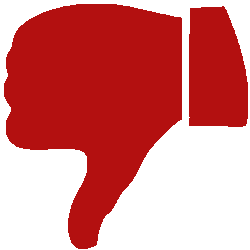
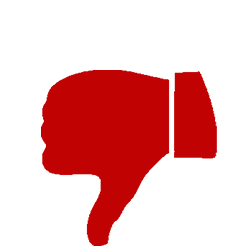
10:49 Tuesday

diff --git a/crowdsource/suggestion.css b/crowdsource/suggestion.css
@@ -1,11 +1,9 @@
 #suggestion_box {
-	border-radius: 3em;
-	margin: 9em auto 2em auto;
-	padding: 2em 4em 3em 4em;
-	width: 40%;
-	text-align: left;
-	/*background-color: rgba(14,14,144, 1);*/
-	/*box-shadow: 5em 5em 5em;*/
+	margin: 10% auto 10% auto;
+	width: 75%;
+	height: 60%;
+	text-align: center;
+	vertical-align: center;
 }
 
 .suggestionTitle {
@@ -15,11 +13,10 @@
 }
 
 p.suggestionTitle {
-	font-size: 4.2em;
+	font-size: 4em;
 }
 
 a.suggestionTitle {
-	margin-left: 1.2em;
 	font-weight: bold;
 	line-height: 200%;
 	font-size: 3.5em;
@@ -30,31 +27,70 @@ a.suggestionTitle:hover {
 	color: #5C5C5C;
 }
 
+.suggestionDiv {
+	min-height: 20%;
+	vertical-align: center;
+}
+
+.suggestionDiv table {
+	height: 100%;
+	width: 100%;
+}
+
 p.suggestion {
-	margin: 0em 0em 0em 2.5em;
+	font-size: 2em;
 	line-height: 150%;
-	font-size: 1.8em;
 	text-decoration: none;
+	width: 100%;
+	margin: 0;
+	line-height: 150%;
 }
 
-#day_div, #year_div, #life_div {
-	padding: .2em;
+.suggestionButtons {
+	padding: 0 0 0 1em;
+	width: 6em;
 }
 
-.upArrow {
-	width: 0; 
-	height: 0; 
-	border-left: 1em solid transparent;
-	border-right: 1em solid transparent;
-	border-bottom: 1.8em solid #610B21;
-	margin: 0em;
+.suggestionButtons td {
+	padding: 1.8em;
 }
 
-.downArrow {
-	width: 0; 
-	height: 0; 
-	border-left: 1em solid transparent;
-	border-right: 1em solid transparent;
-	border-top: 1.8em solid #610B21;
-	margin: 0em;
+.thumbUp {
+	background-image: url(thumbs_up.png);
+	background-position: 50% 50%;
+	background-size: 70%;
+	background-repeat: no-repeat;
+}
+
+.thumbUp:hover {
+	background-image: url(thumbs_up_hover.png);
+}
+
+.thumbDown {
+	background-image: url(thumbs_down.png);
+	background-position: 50% 50%;
+	background-size: 70%;
+	background-repeat: no-repeat;
+}
+
+.thumbDown:hover {
+	background-image: url(thumbs_down_hover.png);
+}
+
+.skip {
+	background-image: url(skip_arrow.png);
+	background-position: 50% 50%;
+	background-size: 70%;
+	background-repeat: no-repeat;
+}
+
+.skip:hover {
+	background-image: url(skip_arrow_hover.png);
+}
+
+.score {
+	padding: 0 1em 0 0;
+	width: 6em;
+	font-size: 1.7em;
+	font-weight: bold;
 }

diff --git a/crowdsource/getGuestSuggestion.js b/crowdsource/getGuestSuggestion.js
@@ -18,23 +18,33 @@ function displaySuggestion(type) {
 			if ( response == "Error: database connection failed.") {
 				// Display appropriate message
 				suggestionDiv.innerHTML =
-				"<p class = \"suggestion\">" + "We're sorry, we couldn't connect to the database. Please try again later." + "</p>";
+				"<p class = \"suggestion\">" + "We're sorry, we couldn't connect to the database. Please try again later.</p>";
 			
 			} else if ( response == "Query Failed" ) {
 				// Display appropriate message
 				suggestionDiv.innerHTML =
-				"<p class = \"suggestion\">" + "We're sorry, we couldn't find a suggestion right now. Please try again later." + "</p>";
-			
+				"<p class = \"suggestion\">" + "We're sorry, we couldn't find a suggestion right now. Please try again later.</p>";
 			} else {
-				
 				var responseArray = JSON.parse(response);
 				var id = responseArray[0];
 				var suggestion = responseArray[1];
 				suggestionDiv.innerHTML =
-				"<div class = upArrow></div>" +
-				"<p class = \"suggestion\">" + suggestion + "</p>" +
-				"<div class = downArrow></div>";
-			
+				"<table>" +
+					"<tr>" +
+						"<td class = \"score\">" +  + "</td>" +
+						"<td><p class = \"suggestion\">" + suggestion + "</p></td>" +
+						"<td class = \"suggestionButtons\">" +
+							"<table>" +
+								"<tr>" +
+									"<td class = \"thumbUp\"><a href = \"#\">&nbsp;</a></td>" +
+									"<td class = \"thumbDown\"><a href = \"#\">&nbsp;</a></td>" +
+									"<td class = \"skip\" onclick = \"displaySuggestion('" + type + "')\"><a href = \"#\">&nbsp;</a></td>" +
+								"</tr>" +
+							"</table>" +
+							"</td>" +
+					"</tr>" +
+				"</table>"
+				;			
 			}
 			// Display the suggestion
 			$(suggestionDiv).fadeIn(300);

diff --git a/crowdsource/login.js b/crowdsource/login.js
@@ -29,7 +29,6 @@ function login() {
 	request.onreadystatechange = function() {
 		if ( request.readyState == 4 && request.status == 200) {
 			var response = request.responseText;
-			alert(response);
 			if ( response == "valid" ) {
 				var headerLinks = document.getElementById("header_links");
 				headerLinks.innerHTML =
@@ -43,7 +42,9 @@ function login() {
 				passwordField.value = "";
 				$(loginTable).fadeOut(700);
 			} else if ( response == "invalid" ) {
-				loginTable.innerHTML += "<tr><td colspan = 3>Username or password is incorrect</td></tr>";
+				loginTable.innerHTML += "<tr id = \"login_error\"><td style = \"text-align: center\" colspan = 3>Username or password is incorrect</td></tr>";
+				$("#login_error").fadeIn(300);
+				setTimeout(function() { $("#login_error").fadeOut(700) }, 1000);
 			} else {
 				loginTable.innerHTML += "<tr><td colspan = 3>Error: couldn't query database.</td></tr>";
 			}

diff --git a/crowdsource/index.html b/crowdsource/index.html
@@ -47,15 +47,15 @@
 
 		<div id = "suggestion_box">
 			<p class = "suggestionTitle">What Should I do...</p>
-			<div id = "day_div">
+			<div id = "day_div" class = "suggestionDiv">
 				<a class = "suggestionTitle" href = "#" onclick = "displaySuggestion('day'); return false;">Today?</a>
 			</div>
 			<br>
-			<div id = "year_div">
+			<div id = "year_div" class = "suggestionDiv">
 				<a class = "suggestionTitle" href = "#" onclick = "displaySuggestion('year'); return false;">This year?</a>
 			</div>
 			<br>
-			<div id = "life_div">
+			<div id = "life_div" class = "suggestionDiv">
 				<a class = "suggestionTitle" href = "#" onclick = "displaySuggestion('life'); return false;">Before I die?</a>
 			</div>
 		</div>

diff --git a/crowdsource/style.css b/crowdsource/style.css
@@ -1,6 +1,6 @@
 html, body {
 	width: 100%;
-	height: 100%; 
+	height: 100%;
 	font-family: "Trebuchet MS", Helvetica, sans-serif;
 }
 
@@ -42,7 +42,11 @@ div.serverMessage a:hover {
 
 #login_table td {
 	text-align: right;
-	padding: .3em .5em .3em .5em;
+	padding: .3em 1.5em .3em 1.5em;
+}
+
+#login_error {
+	display: none;
 }
 
 #header_bar {
